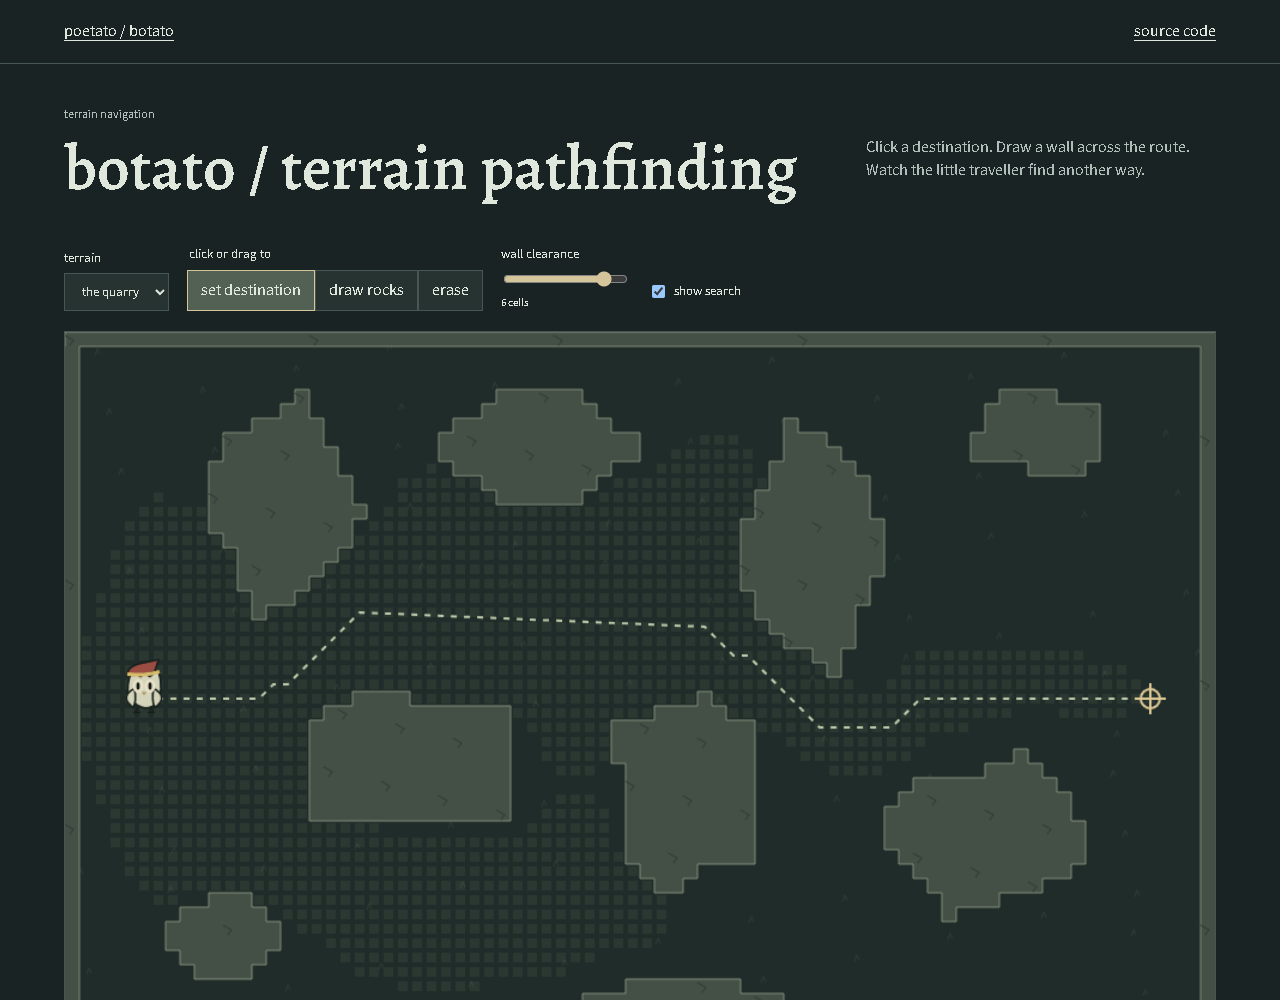
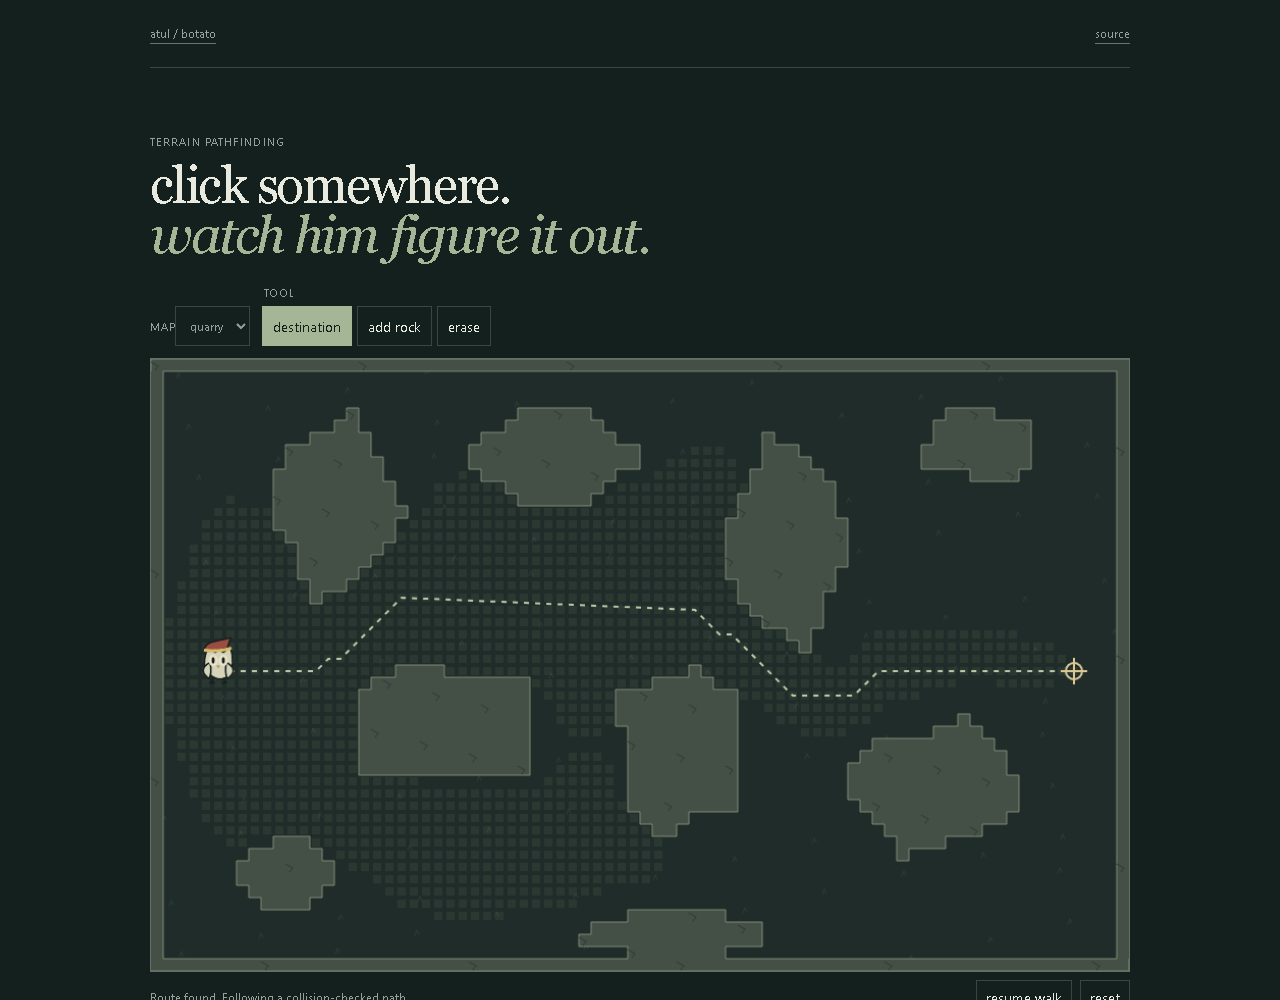
Focus navigation demo on pathfinding

diff --git a/examples/portfolio/index.html b/examples/portfolio/index.html
@@ -1,119 +1,10 @@
-<!doctype html>
-<html lang="en">
-    <meta charset="utf-8" /><meta
-        name="viewport"
-        content="width=device-width,initial-scale=1"
-    /><title>botato / route lab</title
-    ><link rel="stylesheet" href="style.css" />
-    <body>
-        <header>
-            <a href="https://poetato.app">poetato / botato</a
-            ><a href="https://github.com/LolStar123/botato-navigation"
-                >source code</a
-            >
-        </header>
-        <main>
-            <div class="intro">
-                <div>
-                    <p class="eyebrow">terrain navigation</p>
-                    <h1>botato / terrain pathfinding</h1>
-                </div>
-                <p>
-                    Click a destination. Draw a wall across the route. Watch the
-                    little traveller find another way.
-                </p>
-            </div>
-            <div class="toolbar">
-                <label
-                    >terrain<select id="map">
-                        <option value="quarry">the quarry</option>
-                        <option value="ravine">the ravine</option>
-                        <option value="ruins">the ruins</option>
-                    </select></label
-                >
-                <fieldset>
-                    <legend>click or drag to</legend>
-                    <button data-tool="goal" aria-pressed="true">
-                        set destination</button
-                    ><button data-tool="wall" aria-pressed="false">
-                        draw rocks</button
-                    ><button data-tool="erase" aria-pressed="false">
-                        erase
-                    </button>
-                </fieldset>
-                <label
-                    >wall clearance
-                    <input
-                        id="clearance"
-                        type="range"
-                        min="0"
-                        max="7"
-                        value="3"
-                    /><output id="clearance-value">3 cells</output></label
-                ><label class="check"
-                    ><input id="explored" type="checkbox" />show search</label
-                >
-            </div>
-            <div class="terrain">
-                <canvas
-                    id="world"
-                    width="960"
-                    height="600"
-                    tabindex="0"
-                    aria-label="Interactive terrain. Click to set a destination. Arrow keys move the destination; Enter replans."
-                ></canvas>
-                <div class="legend">
-                    <span>solid rock</span><span>planned route</span
-                    ><span>red cap = our traveller</span>
-                </div>
-            </div>
-            <div class="below">
-                <p id="status" role="status"></p>
-                <div>
-                    <button id="pause">pause walk</button
-                    ><button id="reset">reset terrain</button
-                    ><button id="export">export route JSON</button>
-                </div>
-            </div>
-            <section class="metrics">
-                <div>
-                    <span>route length</span><strong id="distance"></strong>
-                </div>
-                <div>
-                    <span>search expanded</span><strong id="nodes"></strong>
-                </div>
-                <div>
-                    <span>turn points after smoothing</span
-                    ><strong id="turns"></strong>
-                </div>
-                <div>
-                    <span>last calculation</span><strong id="timing"></strong>
-                </div>
-            </section>
-            <details>
-                <summary>what Botato is doing</summary>
-                <p>
-                    Botato reads walkable terrain, searches for a route and
-                    keeps space between the character and walls. If the terrain
-                    changes, it plans again before continuing. The browser runs
-                    the same three-stage approach: a wall-distance field,
-                    eight-direction A* with a clearance penalty, and
-                    collision-checked route smoothing.
-                </p>
-                <p>
-                    These three terrains are authored examples, not captured
-                    game maps. The public reference folder contains the original
-                    C# router and smoother. This sandbox needs no game process
-                    or account.
-                </p>
-            </details>
-            <footer>
-                Keyboard: focus the terrain, use arrows to move the destination,
-                then Enter. Drawing replaces the route immediately. Clearance is
-                a route preference; it is not a guarantee that every narrow
-                passage meets that margin.
-            </footer>
-        </main>
-        <script type="module" src="app.mjs"></script>
-    </body>
-</html>
+<!doctype html><html lang="en"><head><meta charset="utf-8"><meta name="viewport" content="width=device-width,initial-scale=1"><title>botato / route lab</title><link rel="stylesheet" href="style.css"></head><body>
+<header><a href="https://lolstar123.github.io/just-a-little-further/">atul / botato</a><a href="https://github.com/LolStar123/botato-navigation">source</a></header>
+<main>
+<section class="hero"><p>terrain pathfinding</p><h1>click somewhere.<br><em>watch him figure it out.</em></h1></section>
+<section class="toolbar"><label>map<select id="map"><option value="quarry">quarry</option><option value="ravine">ravine</option><option value="ruins">ruins</option></select></label><fieldset><legend>tool</legend><button data-tool="goal" aria-pressed="true">destination</button><button data-tool="wall" aria-pressed="false">add rock</button><button data-tool="erase" aria-pressed="false">erase</button></fieldset></section>
+<canvas id="world" width="960" height="600" tabindex="0" aria-label="Interactive terrain. Click to set a destination."></canvas>
+<div class="below"><p id="status" role="status"></p><button id="pause">pause</button><button id="reset">reset</button></div>
+<details><summary>route settings</summary><label>wall clearance <input id="clearance" type="range" min="0" max="7" value="3"><output id="clearance-value">3 cells</output></label><label><input id="explored" type="checkbox"> show search</label><button id="export">export route</button></details>
+<div class="metrics" hidden><strong id="distance"></strong><strong id="nodes"></strong><strong id="turns"></strong><strong id="timing"></strong></div>
+</main><script type="module" src="app.mjs"></script></body></html>

diff --git a/examples/portfolio/style.css b/examples/portfolio/style.css
@@ -1,203 +1,1 @@
-@import url("https://fonts.googleapis.com/css2?family=Alegreya:wght@500;600&family=Source+Sans+3:wght@400;500;600&display=swap");
-:root {
-    color-scheme: dark;
-    --bg: #192323;
-    --surface: #263331;
-    --line: #465653;
-    --ink: #e0e8dd;
-    --muted: #afbeb6;
-    --accent: #d5c59b;
-}
-* {
-    box-sizing: border-box;
-}
-body {
-    margin: 0;
-    background: var(--bg);
-    color: var(--ink);
-    font:
-        16px/1.45 "Source Sans 3",
-        sans-serif;
-}
-header {
-    display: flex;
-    justify-content: space-between;
-    padding: 20px 5%;
-    border-bottom: 1px solid var(--line);
-}
-a {
-    color: inherit;
-    text-underline-offset: 4px;
-}
-main {
-    max-width: 1300px;
-    margin: auto;
-    padding: 30px 5%;
-}
-h1 {
-    font:
-        600 clamp(40px, 5vw, 65px) / 1 Alegreya,
-        Georgia,
-        serif;
-    margin: 10px 0 25px;
-}
-.eyebrow,
-footer {
-    font-size: 12px;
-    color: var(--muted);
-}
-.intro {
-    display: flex;
-    align-items: center;
-    justify-content: space-between;
-    gap: 30px;
-}
-.intro > p {
-    max-width: 350px;
-    color: var(--muted);
-}
-button,
-select {
-    background: var(--surface);
-    border: 1px solid var(--line);
-    color: inherit;
-    font: inherit;
-    padding: 8px 13px;
-    cursor: pointer;
-}
-button[aria-pressed="true"] {
-    background: #526154;
-    border-color: var(--accent);
-}
-:focus-visible {
-    outline: 2px solid var(--accent);
-    outline-offset: 3px;
-}
-.toolbar {
-    display: flex;
-    align-items: end;
-    gap: 18px;
-    flex-wrap: wrap;
-    margin: 20px 0;
-}
-label {
-    font-size: 13px;
-    display: grid;
-    gap: 6px;
-}
-fieldset {
-    border: 0;
-    padding: 0;
-    margin: 0;
-}
-legend {
-    font-size: 13px;
-    margin-bottom: 6px;
-}
-input[type="range"] {
-    accent-color: var(--accent);
-    width: 125px;
-}
-output {
-    font-size: 11px;
-}
-.check {
-    display: flex;
-    align-items: center;
-    margin-bottom: 10px;
-}
-.terrain {
-    border: 1px solid var(--line);
-    background: #202c29;
-    overflow: hidden;
-}
-canvas {
-    display: block;
-    width: 100%;
-    aspect-ratio: 8/5;
-    touch-action: none;
-    cursor: crosshair;
-}
-.legend {
-    display: flex;
-    gap: 20px;
-    border-top: 1px solid var(--line);
-    padding: 10px 15px;
-    font-size: 12px;
-    color: var(--muted);
-}
-.below {
-    display: flex;
-    justify-content: space-between;
-    align-items: center;
-    gap: 20px;
-    margin: 14px 0;
-}
-.below p {
-    font-size: 14px;
-    color: var(--accent);
-}
-.below > div {
-    display: flex;
-    gap: 7px;
-    flex-wrap: wrap;
-}
-.metrics {
-    display: grid;
-    grid-template-columns: repeat(4, 1fr);
-    border-block: 1px solid var(--line);
-    margin: 24px 0;
-    padding: 18px 0;
-    gap: 18px;
-}
-.metrics span {
-    display: block;
-    font-size: 12px;
-    color: var(--muted);
-}
-.metrics strong {
-    font-size: 25px;
-    font-weight: 500;
-    font-variant-numeric: tabular-nums;
-}
-details {
-    max-width: 800px;
-    font-size: 14px;
-}
-summary {
-    cursor: pointer;
-}
-footer {
-    margin: 26px 0;
-}
-@media (max-width: 650px) {
-    main {
-        padding: 25px 4%;
-    }
-    .intro,
-    .below {
-        display: block;
-    }
-    .metrics {
-        grid-template-columns: 1fr 1fr;
-    }
-    .toolbar {
-        gap: 12px;
-    }
-    fieldset button {
-        font-size: 13px;
-        padding: 8px;
-    }
-    .legend {
-        font-size: 10px;
-        gap: 10px;
-    }
-    .intro > p {
-        max-width: none;
-    }
-}
-
-/* Tactile without becoming decorative. */
-button{transition-property:color,background-color,border-color,scale;transition-duration:120ms;transition-timing-function:cubic-bezier(.2,0,0,1)}
-button:active:not(:disabled){scale:.96}
-@media(prefers-reduced-motion:reduce){button{transition:none}}
+:root{color-scheme:dark;--bg:#14201d;--ink:#e8e9df;--muted:#96a19b;--line:#3a4740;--moss:#a5b696;--gold:#d2bd82}*{box-sizing:border-box}body{margin:0;background:var(--bg);color:var(--ink);font:14px/1.5 "Segoe UI",Arial,sans-serif}a{color:inherit;text-decoration-color:#66766d;text-underline-offset:5px}button,select,input{font:inherit;color:inherit;border-radius:0}:focus-visible{outline:2px solid var(--gold);outline-offset:3px}header,main{width:min(980px,calc(100% - 48px));margin:auto}header{height:68px;display:flex;align-items:center;justify-content:space-between;border-bottom:1px solid var(--line);color:var(--muted);font-size:12px}main{padding:66px 0}.hero p{margin:0 0 9px;color:var(--muted);font-size:11px;text-transform:uppercase;letter-spacing:.1em}.hero h1{margin:0 0 45px;font:52px/.98 Georgia,serif;font-weight:400;letter-spacing:-.04em}.hero em{color:var(--moss);font-weight:400}.toolbar{display:flex;align-items:end;gap:12px;margin-bottom:12px}.toolbar label,.toolbar legend{color:var(--muted);font-size:11px;text-transform:uppercase;letter-spacing:.07em}.toolbar select,.toolbar button{min-height:40px;padding:7px 10px;border:1px solid var(--line);background:transparent}.toolbar fieldset{display:flex;gap:5px;margin:0;padding:0;border:0}.toolbar legend{position:absolute;translate:0 -21px}.toolbar button[aria-pressed=true]{color:#15201d;background:var(--moss);border-color:var(--moss)}#world{display:block;width:100%;height:auto;border:1px solid #627067;background:#202c29;touch-action:none}.below{display:flex;align-items:center;gap:8px;min-height:53px;border-bottom:1px solid var(--line)}.below p{margin-right:auto;color:var(--muted);font-size:12px}.below button,details button{padding:6px 9px;border:1px solid var(--line);background:transparent}details{padding-bottom:16px;border-bottom:1px solid var(--line);color:var(--muted);font-size:12px}summary{padding:16px 0;color:var(--gold);cursor:pointer}details label{margin-right:20px}details input{accent-color:var(--moss)}@media(max-width:650px){header,main{width:calc(100% - 30px)}header{height:58px}main{padding:46px 0}.hero h1{font-size:clamp(38px,12vw,51px)}.toolbar{align-items:start;flex-direction:column}.toolbar fieldset{margin-top:18px;flex-wrap:wrap}.below{flex-wrap:wrap;padding-block:8px}.below p{width:100%}details label{display:block;margin:10px 0}}@media(prefers-reduced-motion:reduce){*{transition:none!important}}

diff --git a/tools/browser_audit.py b/tools/browser_audit.py
@@ -35,6 +35,7 @@ try:
         page.locator('[data-tool="erase"]').click()
         page.mouse.click(box['x']+box['width']*.94,box['y']+box['height']*.49)
         assert page.evaluate('__botato.reachable')
+        page.locator('details summary').click()
         page.locator('#clearance').fill('6');page.locator('#clearance').dispatch_event('input')
         page.locator('#explored').check()
         with page.expect_download() as dl:page.locator('#export').click()
